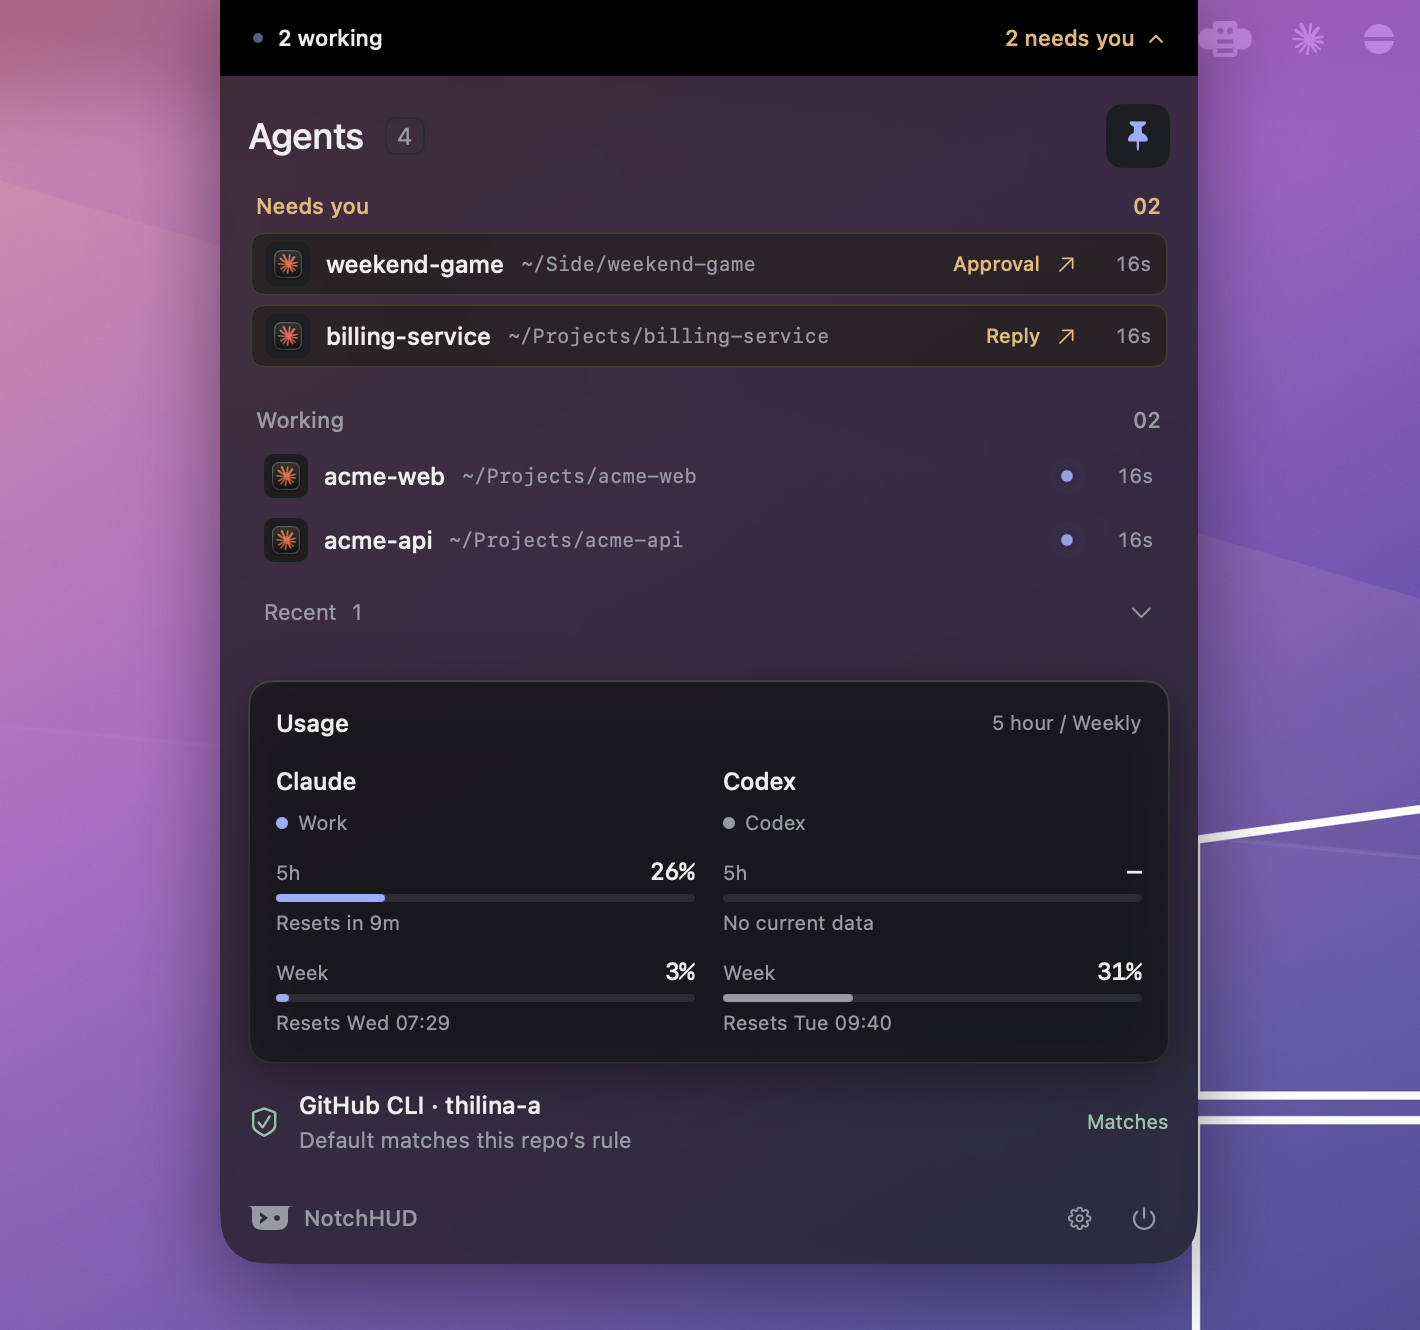
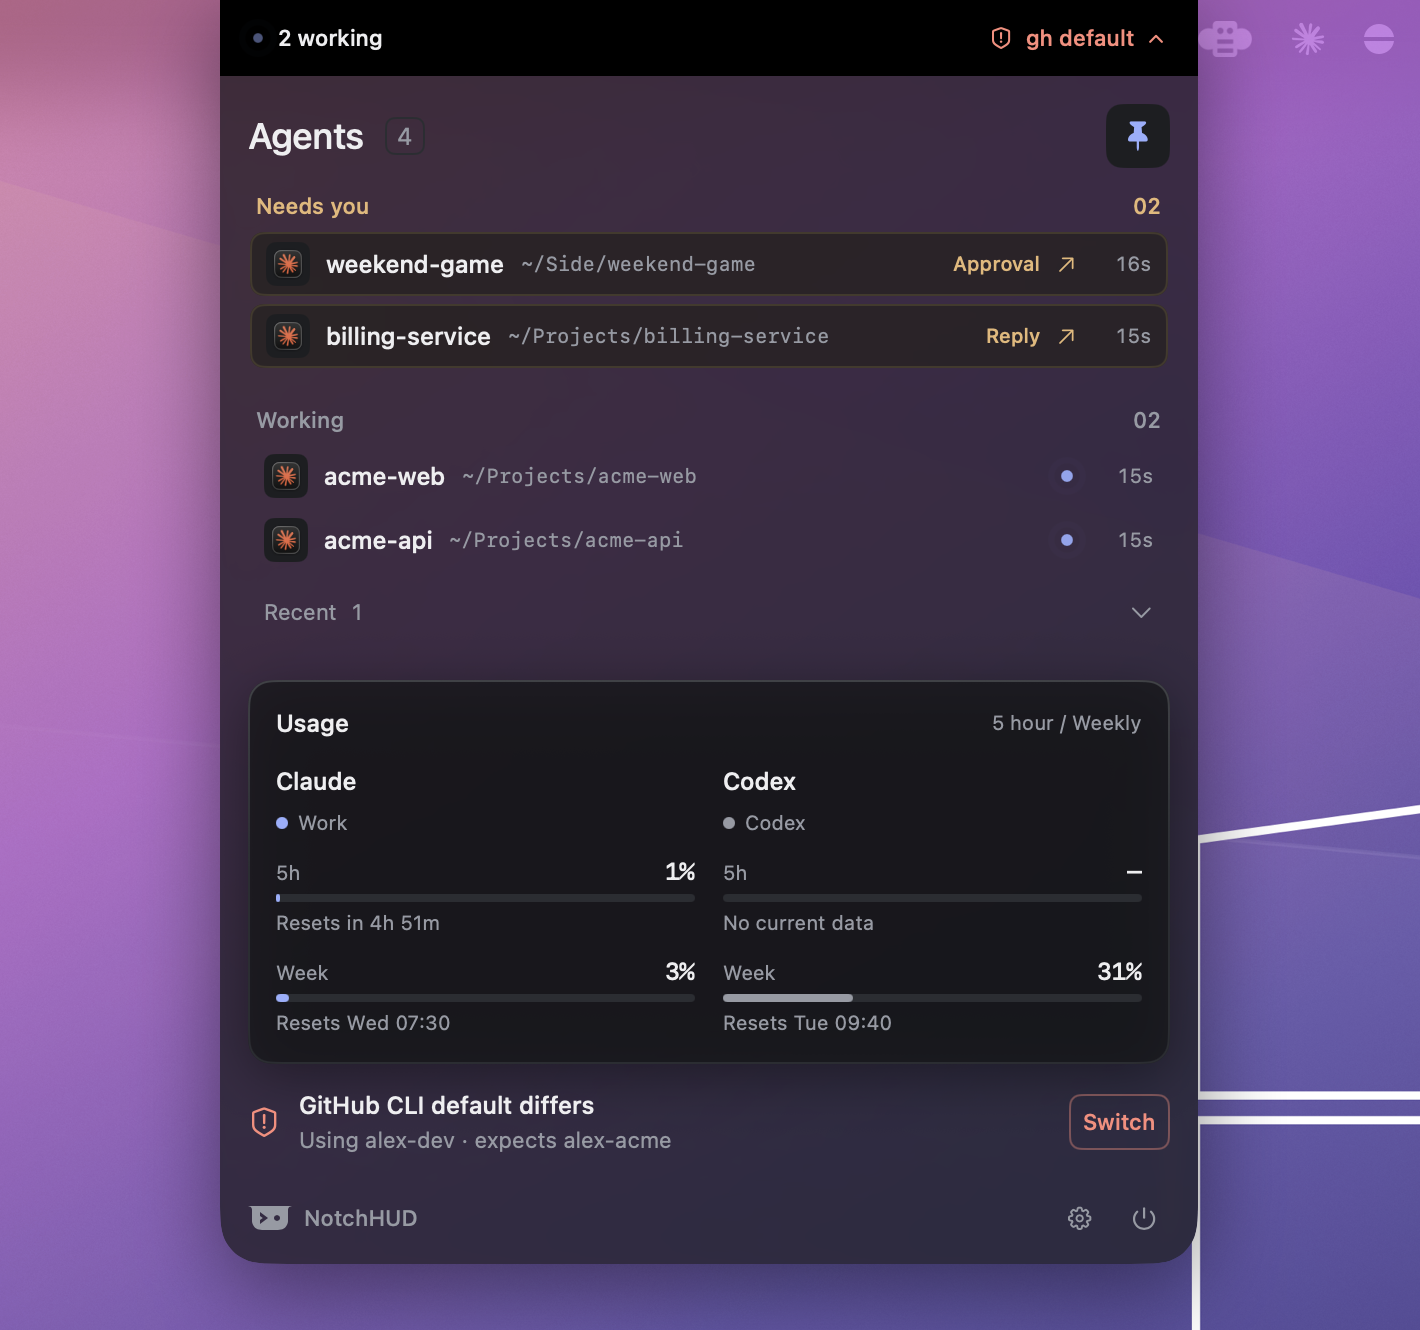
Screenshots with placeholder GitHub accounts; example.com in a test fixture

diff --git a/Tests/NotchHUDTests/ConfigStoreTests.swift b/Tests/NotchHUDTests/ConfigStoreTests.swift
@@ -15,7 +15,7 @@ final class ConfigStoreTests: XCTestCase {
         XCTAssertTrue(store.config.needsOnboarding)
         store.config.subscriptions.append(HUDConfig.defaultCodex)
         let a = store.addClaudeAccount(email: " Me@Company.io ")
-        let b = store.addClaudeAccount(email: "me@gmail.com", label: "Home")
+        let b = store.addClaudeAccount(email: "me@example.com", label: "Home")
         XCTAssertEqual(a.email, "me@company.io")
         XCTAssertEqual(a.label, "Me", "default label is the email's local part")
         XCTAssertEqual(b.label, "Home")
